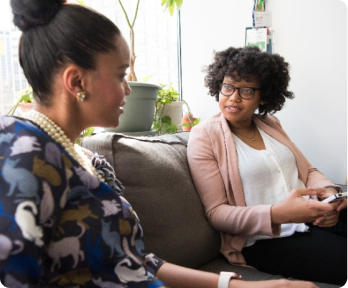
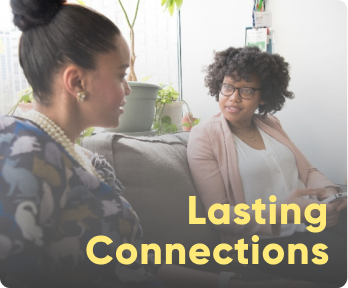
add styling & edit assets

diff --git a/src/components/Landing/Partners/Partners.scss b/src/components/Landing/Partners/Partners.scss
@@ -4,6 +4,17 @@
 
 .partners {
   &__container {
+    display: flex;
+    flex-direction: column;
+    padding: 1rem;
+
+    @include tablet {
+      display: flex;
+      flex-direction: row;
+      align-items: center;
+      justify-content: center;
+      padding: 1.5rem;
+    }
     &--header {
       display: flex;
       flex-direction: column;
@@ -14,13 +25,29 @@
       }
     }
     &--info {
+      @include tablet {
+        padding: 3rem;
+      }
+    }
+    &--images {
+
+        &:before {
+            content: "";
+            position: absolute;
+            right: 0;
+            width: 75rem;
+            height: 23rem;
+            margin-top: -2rem;
+            border-radius: 3rem 0 0 3rem;
+            background-color: $mvp-red;
+            opacity: 50%;
+            z-index: -1;
+        }
+      @include tablet {
         display: flex;
         flex-direction: row;
-        padding: 1rem;
-
-        @include tablet {
-            padding: 1.5rem;
-        }
+        padding: 3rem;
+      }
     }
   }
 
@@ -29,7 +56,7 @@
     @include mobile-subheader;
 
     @include tablet {
-        @include desktop-subheader;
+      @include desktop-subheader;
     }
   }
 
@@ -38,7 +65,41 @@
     margin: auto;
 
     @include tablet {
-        width: 40rem;
+      width: 40rem;
+    }
+  }
+
+  //   TODO: may need to be the same size as the about section mockup photo
+  &__mockup {
+    display: none;
+
+    @include tablet {
+      display: flex;
+      width: 35rem;
+    }
+  }
+
+  &__description {
+    @include mobile-subheader; 
+    padding: 1rem;
+
+    @include tablet {
+        @include desktop-subheader;
+        padding: 1.5rem;
+    }
+  }
+  &__highlight {
+    color: $mvp-red;
+    opacity: 50%;;
+  }
+
+  &__image {
+    width: 21.75rem;
+    height: 18.5rem;
+    &--lasting {
+      height: 18rem;
+      box-shadow: 0px 4px 4px rgba(0, 0, 0, 0.25);
+      border-radius: 0.625rem;
     }
   }
 }

diff --git a/src/components/Landing/Partners/Partners.jsx b/src/components/Landing/Partners/Partners.jsx
@@ -17,29 +17,35 @@ const Partners = () => {
           />
         </div>
 
-        <div className="partners__container--info">
-          <img
-            src={phoneMockup}
-            alt="Phone holding mockup"
-            className="partners__mockup"
-          />
+        <div className="partners__container">
+          <div className="partners__container--mockup">
+            <img
+              src={phoneMockup}
+              alt="Phone holding mockup"
+              className="partners__mockup"
+            />
+          </div>
 
-          <h3 className="partners__description">
-            <span className="partners__highlight">CoffeeChat</span> leverages AI
-            into finding you a perfect professional match, no more connections
-            that leads nowhere
-          </h3>
+          <div className="partners__container--info">
+            <h3 className="partners__description">
+              <span className="partners__highlight">CoffeeChat</span> leverages
+              AI into finding you a perfect professional match, no more
+              connections that leads nowhere
+            </h3>
 
-          <img
-            src={lastingImage}
-            alt="two women connecting"
-            className="partners__image"
-          />
-          <img
-            src={professionalImage}
-            alt="two people collaborating"
-            className="partners__image"
-          />
+            <div className="partners__container--images">
+              <img
+                src={lastingImage}
+                alt="two women connecting"
+                className="partners__image--lasting"
+              />
+              <img
+                src={professionalImage}
+                alt="two people collaborating"
+                className="partners__image"
+              />
+            </div>
+          </div>
         </div>
       </section>
     </>
